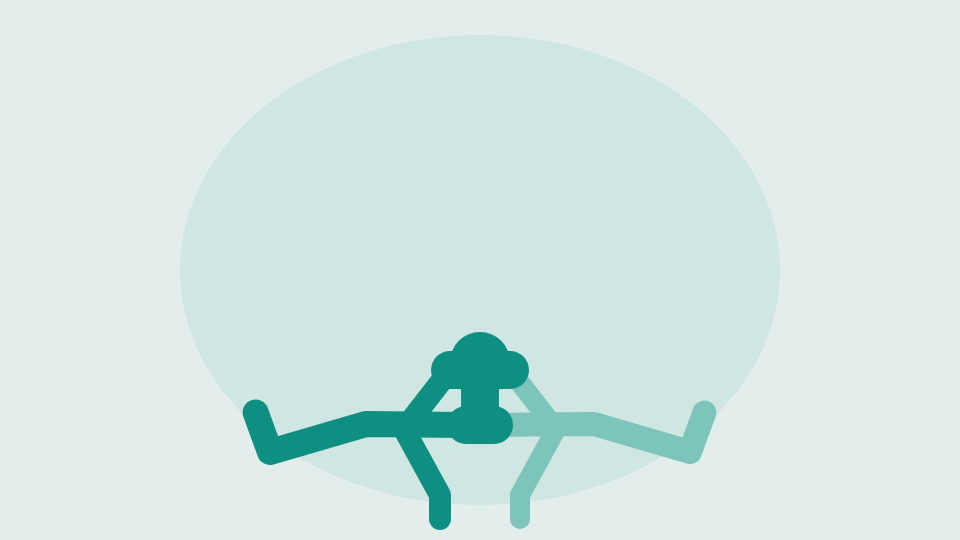
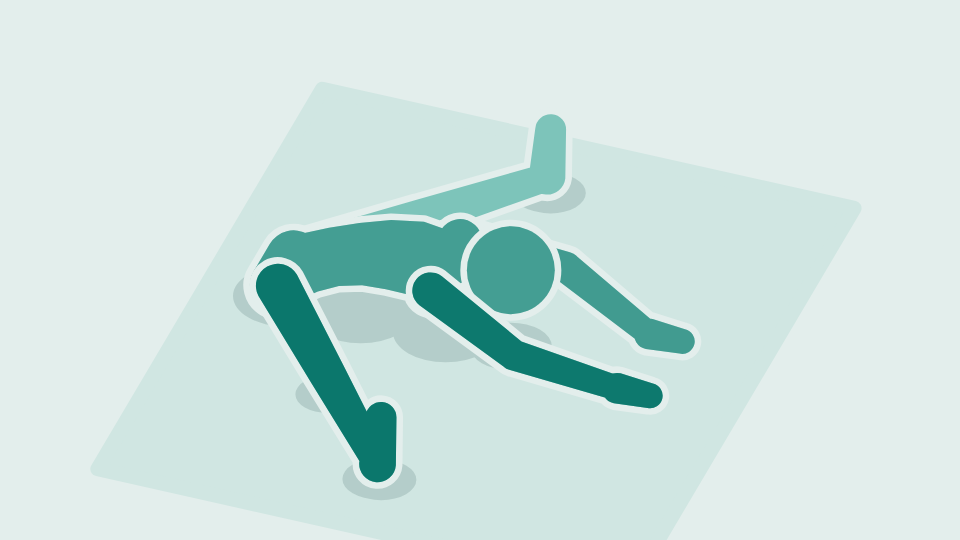
feat: add pancake and active pancake animations with related updates

Changed region(s): [[0.2188, 0.2074, 0.75, 0.9778]]

diff --git a/src/data/exercise-animations-3d.ts b/src/data/exercise-animations-3d.ts
@@ -716,3 +716,140 @@ export const NINETY_TO_NINETY_ROTATIONS_3D: Clip3D = {
     { ms: 300, pose: ROTATIONS_RIGHT },
   ],
 };
+
+// --- Pancake: sitting with straight legs spread wide, folding forward between them from the hips ---
+
+/** How far each leg is out from straight ahead, which puts 100° between them. */
+const PANCAKE_SPREAD = 50;
+/** How far the spread legs slope down from the hips to heels resting on the floor. */
+const PANCAKE_LEG_DROP =
+  (Math.asin((SIT_PELVIS_Y - ANKLE_Y) / ((SKELETON.thigh + SKELETON.shin) * Math.cos((PANCAKE_SPREAD * Math.PI) / 180))) * 180) / Math.PI;
+/** At the bottom of the fold the pelvis has tipped this far forward and the back has rounded this far, which brings the chest down near the floor. */
+const PANCAKE_LEAN = 50;
+const PANCAKE_ROUNDING = 45;
+/** Sitting tall, the back is this close to straight. */
+const PANCAKE_TALL_ROUNDING = 6;
+/**
+ * The hands are on the floor between the legs, this far either side of the middle: close together
+ * in front of the hips sitting tall, and under the shoulders at the bottom of the fold. Sitting
+ * tall, an arm any further out runs right alongside its thigh from the camera, and the two clip.
+ */
+const PANCAKE_HANDS_TALL_Z = 8;
+const PANCAKE_HANDS_FOLDED_Z = 32;
+/** How far the wrists are from the shoulders, which leaves the elbows a little soft. */
+const PANCAKE_ARM_REACH = 0.96 * (SKELETON.upperArm + SKELETON.forearm);
+
+/**
+ * Folded this far forward, from 0, sitting tall, to 1. The pelvis tips and the back rounds after
+ * it, while the legs stay where they are on the floor, kneecaps and toes up.
+ */
+const pancakeBody = (fold: number): Pose3 => {
+  const lean = PANCAKE_LEAN * fold;
+  const leg: LegPose = { flex: 90 - PANCAKE_LEG_DROP + lean, abduct: PANCAKE_SPREAD };
+  return {
+    pelvis: [0, SIT_PELVIS_Y, 0],
+    lean,
+    spine: { flex: PANCAKE_TALL_ROUNDING + (PANCAKE_ROUNDING - PANCAKE_TALL_ROUNDING) * fold },
+    // The head lifts a little to look along the floor rather than hang.
+    neck: { flex: -15 * fold },
+    rightLeg: leg,
+    leftLeg: leg,
+  };
+};
+
+/**
+ * The right hand on the floor where the arm reaches out ahead of the shoulder with the body folded
+ * this far. The elbow points back sitting tall, clear of the thigh beside it, and out to the side
+ * at the bottom of the fold. The left hand mirrors it.
+ */
+const pancakeHand = (fold: number, side: 1 | -1): NonNullable<Pose3['pins']>['rightHand'] => {
+  const shoulder = solvePose(pancakeBody(fold)).rightArm[0];
+  const z = PANCAKE_HANDS_TALL_Z + (PANCAKE_HANDS_FOLDED_Z - PANCAKE_HANDS_TALL_Z) * fold;
+  const x = shoulder[0] + Math.sqrt(PANCAKE_ARM_REACH ** 2 - (shoulder[1] - WRIST_Y) ** 2 - (z - shoulder[2]) ** 2);
+  return { at: [x, WRIST_Y, side * z], toward: [1, 0, 0], pole: [-1 + 0.7 * fold, 0.2 * fold, side * (0.2 + 0.8 * fold)] };
+};
+
+/**
+ * The pancake folded this far, both hands on the floor between the legs. Each hand is where it
+ * would reach to at a fold of its own, no further than the body's, so one can stay behind while
+ * the other steps forward.
+ */
+const pancakeAt = (fold: number, rightHand = fold, leftHand = fold): Pose3 => ({
+  ...pancakeBody(fold),
+  pins: { rightHand: pancakeHand(rightHand, 1), leftHand: pancakeHand(leftHand, -1) },
+});
+const PANCAKE_TALL = pancakeAt(0);
+const PANCAKE_FOLDED = pancakeAt(1);
+
+const PANCAKE_WALK_MS = 3000;
+/** Each hand takes this many steps on the way down, the right one first. */
+const PANCAKE_STRIDES = 3;
+/** How many frames each step of a hand is drawn in. */
+const PANCAKE_STEP_FRAMES = 4;
+
+/**
+ * Walking the hands forward into the fold: the body sinks steadily while the hands take turns
+ * stepping out to where the arms reach. The body and each step ease in and out on their own, so
+ * the frames are placed along them rather than eased again.
+ */
+const pancakeWalk = (): Keyframe3[] => {
+  const eased = (t: number) => t * t * (3 - 2 * t);
+  const steps = 2 * PANCAKE_STRIDES;
+  /** The fold a hand reaches to once step `index` is done: the body's at that moment, and all the way for each hand's last step. */
+  const target = (index: number) => (index < 0 ? 0 : index >= steps - 2 ? 1 : eased((index + 1) / steps));
+  /** Where a hand is `at` this far through the walk, as the fold it reaches to. The right hand (`first` 0) takes the even steps. */
+  const hand = (at: number, first: 0 | 1) => {
+    const step = Math.min(steps - 1, Math.floor(at * steps));
+    const mine = step % 2 === first ? step : step - 1;
+    const reached = mine === step ? target(mine - 2) + (target(mine) - target(mine - 2)) * eased(at * steps - step) : target(mine);
+    // Never further than the arm reaches from where the body is now.
+    return Math.min(reached, eased(at));
+  };
+  const frames: Keyframe3[] = [];
+  const count = steps * PANCAKE_STEP_FRAMES;
+  for (let frame = 1; frame <= count; frame++) {
+    const at = frame / count;
+    frames.push({ ms: PANCAKE_WALK_MS / count, pose: pancakeAt(eased(at), hand(at, 0), hand(at, 1)), ease: 'none' });
+  }
+  return frames;
+};
+
+/** From the figure's right, a little in front and well above: the fold goes across the screen and both legs lie open on the floor, one toward the camera and one away. */
+const PANCAKE_CAMERA = { yaw: 20, pitch: 38 };
+
+export const PANCAKE_3D: Clip3D = {
+  view: '3d',
+  camera: PANCAKE_CAMERA,
+  highlight: ['rightLeg', 'leftLeg'],
+  // Folded, where the walk ends.
+  stillFrame: 1 + 2 * PANCAKE_STRIDES * PANCAKE_STEP_FRAMES,
+  keyframes: [
+    { ms: 0, pose: PANCAKE_TALL },
+    { ms: 500, pose: PANCAKE_TALL },
+    ...pancakeWalk(),
+    { ms: 3500, pose: PANCAKE_FOLDED },
+    { ms: 1800, pose: PANCAKE_TALL },
+  ],
+};
+
+// --- Active pancake: the pancake's fold, in and out without holding, deeper the second time ---
+
+const ACTIVE_PANCAKE_FIRST = pancakeAt(0.75);
+
+export const ACTIVE_PANCAKE_3D: Clip3D = {
+  view: '3d',
+  camera: PANCAKE_CAMERA,
+  highlight: ['rightLeg', 'leftLeg'],
+  stillFrame: 5,
+  keyframes: [
+    { ms: 0, pose: PANCAKE_TALL },
+    { ms: 1500, pose: ACTIVE_PANCAKE_FIRST },
+    { ms: 300, pose: ACTIVE_PANCAKE_FIRST },
+    { ms: 1400, pose: PANCAKE_TALL },
+    { ms: 300, pose: PANCAKE_TALL },
+    { ms: 1700, pose: PANCAKE_FOLDED },
+    { ms: 300, pose: PANCAKE_FOLDED },
+    { ms: 1600, pose: PANCAKE_TALL },
+    { ms: 300, pose: PANCAKE_TALL },
+  ],
+};

diff --git a/src/lib/rig3d.test.ts b/src/lib/rig3d.test.ts
@@ -1,5 +1,6 @@
 import { EXERCISES } from '@/data/exercises';
 import {
+  ACTIVE_PANCAKE_3D,
   CAT_COW_3D,
   HIP_ABDUCTION_3D,
   HIP_EXTERNAL_ROTATION_3D,
@@ -12,6 +13,7 @@ import {
   NINETY_TO_NINETY_ROTATIONS_3D,
   NINETY_TO_NINETY_SIDE_FOOT_LIFTS_3D,
   OVERHEAD_REACH_3D,
+  PANCAKE_3D,
   SHOULDER_ABDUCTION_3D,
   SHOULDER_EXTERNAL_ROTATION_3D,
   SIT_AND_REACH_3D,
@@ -284,6 +286,8 @@ describe('3D clips', () => {
       '90-to-90',
       '90-to-90-rotations',
       '90-to-90-side-foot-lifts',
+      'pancake',
+      'active-pancake',
       'warmup-marching',
     ]));
   });
@@ -886,6 +890,83 @@ describe('3D clips', () => {
     for (const { rightArm, leftArm } of samples(clip).map(solvePose)) {
       for (const arm of [rightArm, leftArm]) expect(angleAt(arm[0], arm[1], arm[2])).toBeGreaterThan(145);
     }
+  });
+
+  it('folds forward between straight legs spread wide on the floor, hands on the floor, in the pancake clips', () => {
+    for (const clip of [PANCAKE_3D, ACTIVE_PANCAKE_3D]) {
+      const skeletons = samples(clip).map(solvePose);
+      const tall = skeletons[0];
+      for (const { rightLeg, leftLeg, rightArm, leftArm } of skeletons) {
+        // The legs never move: straight, heels on the floor, the same on both sides.
+        [...rightLeg, ...leftLeg].forEach((joint, i) => expect(distance(joint, [...tall.rightLeg, ...tall.leftLeg][i])).toBeCloseTo(0));
+        for (const leg of [rightLeg, leftLeg]) {
+          expect(angleAt(leg[0], leg[1], leg[2])).toBeCloseTo(180);
+          expect(leg[2][1]).toBeCloseTo(13);
+          // Toes up.
+          expect(leg[3][1] - leg[2][1]).toBeGreaterThan(40);
+        }
+        rightLeg.forEach((joint, i) => expect(distance(joint, [leftLeg[i][0], leftLeg[i][1], -leftLeg[i][2]])).toBeCloseTo(0));
+        // Both hands stay on the floor between the legs, the arms short of locked out.
+        for (const arm of [rightArm, leftArm]) {
+          expect(arm[2][1]).toBeCloseTo(11);
+          expect(Math.abs(arm[2][2])).toBeLessThan(40);
+          expect(distance(arm[0], arm[2])).toBeLessThan(SKELETON.upperArm + SKELETON.forearm - 4);
+        }
+      }
+      // Spread wide: about 100° between the legs.
+      const between = angleAt(tall.rightLeg[2], tall.spine[0], tall.leftLeg[2]);
+      expect(between).toBeGreaterThan(90);
+      expect(between).toBeLessThan(110);
+      // Sitting tall, the chest is over the hips; folded, it's well forward and down near the floor, hands far ahead.
+      const folded = solvePose(clip.keyframes[clip.stillFrame].pose);
+      const chest = (skeleton: Skeleton) => skeleton.spine[skeleton.spine.length - 1];
+      expect(Math.abs(chest(tall)[0])).toBeLessThan(15);
+      expect(chest(tall)[1]).toBeGreaterThan(140);
+      expect(chest(folded)[0]).toBeGreaterThan(100);
+      expect(chest(folded)[1]).toBeLessThan(70);
+      expect(folded.rightArm[2][0] - tall.rightArm[2][0]).toBeGreaterThan(150);
+    }
+  });
+
+  it('never swaps the near arm and the near leg over each other in the pancake clips', () => {
+    // Sitting tall, the right arm comes down beside the right thigh from the camera. Close enough
+    // to touch it, the two changed places as the hands set off, and the arm clipped under the leg.
+    for (const clip of [PANCAKE_3D, ACTIVE_PANCAKE_3D]) {
+      const view = viewOf(clip.camera);
+      for (let t = 0; t <= durationOf(clip); t += 50) {
+        const order = frameAt(clip, view, t).slots.map((slot) => slot.part);
+        expect(order.indexOf('rightArm')).toBeLessThan(order.indexOf('rightLeg'));
+      }
+    }
+  });
+
+  it('walks the hands forward one at a time, the right one first, on the way into the pancake', () => {
+    const skeletons = samples(PANCAKE_3D).map(solvePose);
+    const lead = skeletons.map(({ rightArm, leftArm }) => rightArm[2][0] - leftArm[2][0]);
+    // Each hand gets ahead of the other in turn, and neither ever moves back on the way down.
+    expect(Math.max(...lead)).toBeGreaterThan(30);
+    expect(Math.min(...lead)).toBeLessThan(-15);
+    const start = skeletons[0];
+    const firstMoved = (arm: 'rightArm' | 'leftArm') => skeletons.findIndex((skeleton) => skeleton[arm][2][0] - start[arm][2][0] > 1);
+    expect(firstMoved('rightArm')).toBeLessThan(firstMoved('leftArm'));
+    const hold = PANCAKE_3D.stillFrame;
+    const down = PANCAKE_3D.keyframes.slice(0, hold + 1).map(({ pose }) => solvePose(pose));
+    for (let i = 1; i < down.length; i++) {
+      expect(down[i].rightArm[2][0]).toBeGreaterThanOrEqual(down[i - 1].rightArm[2][0] - 1e-6);
+      expect(down[i].leftArm[2][0]).toBeGreaterThanOrEqual(down[i - 1].leftArm[2][0] - 1e-6);
+    }
+    // They end side by side.
+    expect(down[hold].rightArm[2][0]).toBeCloseTo(down[hold].leftArm[2][0]);
+  });
+
+  it('goes deeper the second time in the active pancake', () => {
+    const heights = samples(ACTIVE_PANCAKE_3D).map((pose) => solvePose(pose).head[1]);
+    const half = Math.floor(heights.length / 2);
+    const first = Math.min(...heights.slice(0, half));
+    const second = Math.min(...heights.slice(half));
+    expect(second).toBeLessThan(first - 15);
+    // It sits back up tall in between.
+    expect(Math.max(...heights.slice(half - 10, half + 10))).toBeCloseTo(heights[0]);
   });
 
   it('traces the path of the hand a clip trails, and nothing otherwise', () => {

diff --git a/src/data/exercises.ts b/src/data/exercises.ts
@@ -5,15 +5,16 @@ import type { ExerciseAnimation } from '@/lib/figure-rig';
 import type { ScoreArea } from './mobility-score';
 
 import {
+  ACTIVE_PANCAKE_3D,
   CAT_COW_3D,
   LEG_SWINGS_3D,
   NINETY_TO_NINETY_3D,
   NINETY_TO_NINETY_ROTATIONS_3D,
   NINETY_TO_NINETY_SIDE_FOOT_LIFTS_3D,
+  PANCAKE_3D,
 } from './exercise-animations-3d';
 
 import {
-  ACTIVE_PANCAKE,
   ACTIVE_STRAIGHT_LEG_RAISE,
   ANKLE_MOBILIZATION,
   BACK_LYING_REVERSE_PIGEON,
@@ -57,7 +58,6 @@ import {
   NECK_SIDE_STRETCH,
   OPEN_BOOK,
   OVERHEAD_TRICEPS_STRETCH,
-  PANCAKE,
   PEC_STRETCH_ON_THE_GROUND,
   PIGEON_STRETCH,
   PRAYER_POSE,
@@ -281,7 +281,7 @@ const ALL_EXERCISES: Exercise[] = [
       'Relax and let your chest sink toward the floor',
     ],
     photo: require('@/assets/images/exercises/pancake.png'),
-    animation: PANCAKE,
+    animation: PANCAKE_3D,
   },
   {
     id: 'active-pancake',
@@ -296,7 +296,7 @@ const ALL_EXERCISES: Exercise[] = [
       'Keep moving in and out of the stretch, going a little deeper each time',
     ],
     photo: require('@/assets/images/exercises/active-pancake.png'),
-    animation: ACTIVE_PANCAKE,
+    animation: ACTIVE_PANCAKE_3D,
     active: true,
     oneMinuteOnly: true,
   },

diff --git a/README.md b/README.md
@@ -136,16 +136,17 @@ Moved to the new engine:
 | 90 to 90 | Library | `NINETY_TO_NINETY_3D` |
 | 90 to 90 rotations | Library | `NINETY_TO_NINETY_ROTATIONS_3D` |
 | 90 to 90 side foot lifts | Library | `NINETY_TO_NINETY_SIDE_FOOT_LIFTS_3D` |
+| Pancake | Library | `PANCAKE_3D` |
+| Active pancake | Library | `ACTIVE_PANCAKE_3D` |
 
 Still on the old engine (clip names in `exercise-animations.ts`). Where a clip needs something the new engine doesn't have yet, it's noted.
 
-All ten flexibility tests are on the new engine. The last six to move (knee to wall, the two seated hip rotations, sit and reach, knee to chest and straight leg raise) haven't been checked on a device yet, so their old clips are still in `exercise-animations.ts`; delete them once they have. The same goes for the three 90 to 90 clips in the library (`NINETY_TO_NINETY_ROTATIONS` has to stay either way: windshield wipers with knee lift is built on it).
+All ten flexibility tests are on the new engine. The last six to move (knee to wall, the two seated hip rotations, sit and reach, knee to chest and straight leg raise) haven't been checked on a device yet, so their old clips are still in `exercise-animations.ts`; delete them once they have. The same goes for the three 90 to 90 clips in the library (`NINETY_TO_NINETY_ROTATIONS` has to stay either way: windshield wipers with knee lift is built on it), and for the two pancake clips (`PANCAKE_UP` has to stay either way: the seated straddle side bend is built on it).
 
 Library (`src/data/exercises.ts`):
 
 | Exercise | Clip | Needs |
 |---|---|---|
-| Active pancake | `ACTIVE_PANCAKE` | |
 | Active straight leg raise | `ACTIVE_STRAIGHT_LEG_RAISE` | |
 | Ankle mobilization | `ANKLE_MOBILIZATION` | |
 | Back lying reverse pigeon | `BACK_LYING_REVERSE_PIGEON` | |
@@ -189,7 +190,6 @@ Library (`src/data/exercises.ts`):
 | Neck side stretch | `NECK_SIDE_STRETCH` | |
 | Open book | `OPEN_BOOK` | |
 | Overhead triceps stretch | `OVERHEAD_TRICEPS_STRETCH` | |
-| Pancake | `PANCAKE` | |
 | Pec stretch on the ground | `PEC_STRETCH_ON_THE_GROUND` | |
 | Pigeon stretch | `PIGEON_STRETCH` | |
 | Prayer pose | `PRAYER_POSE` | |
